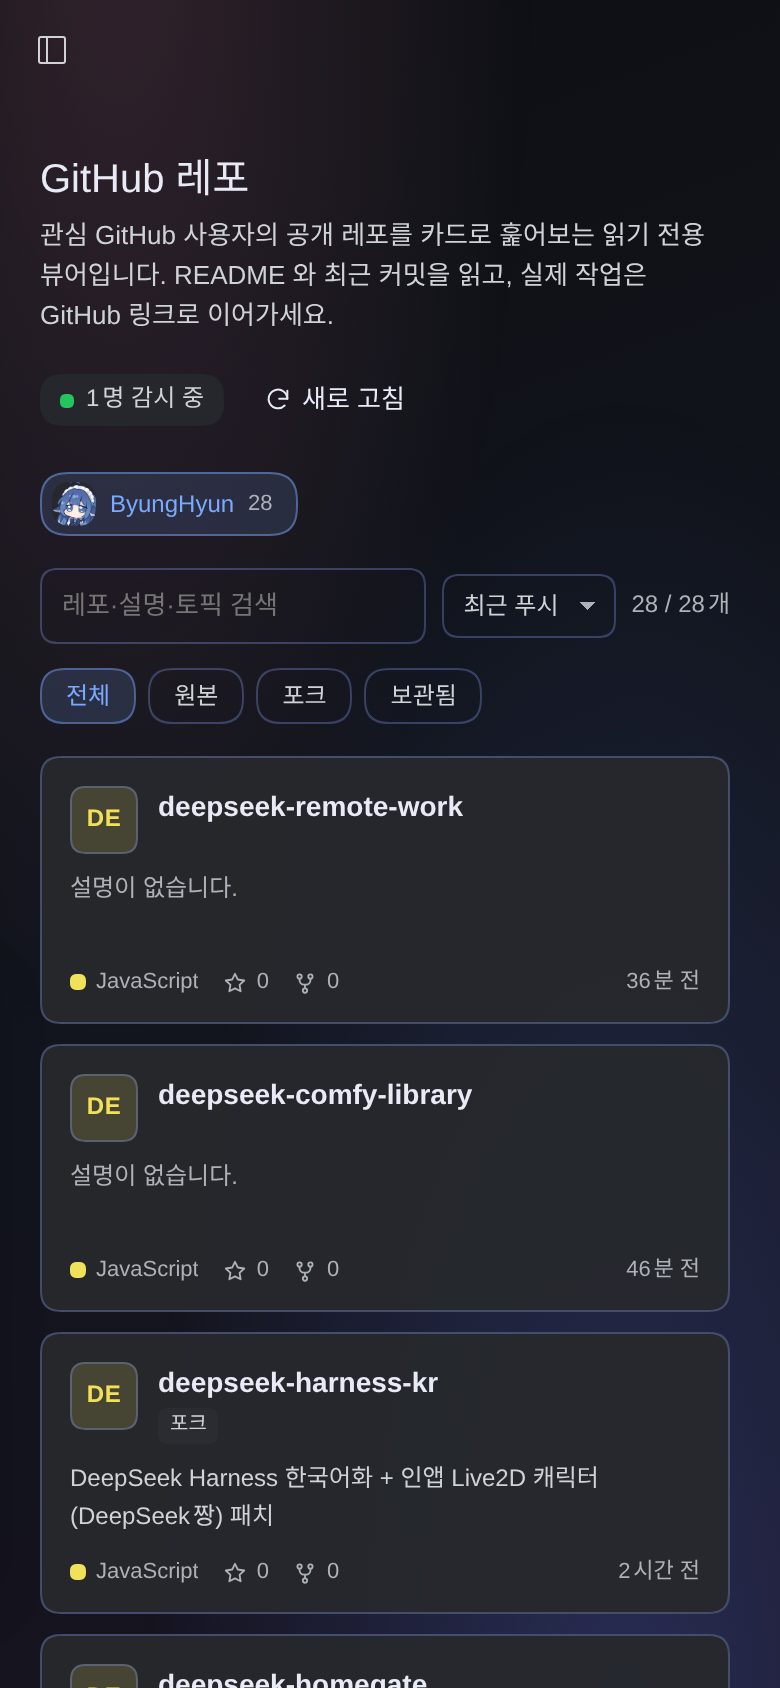
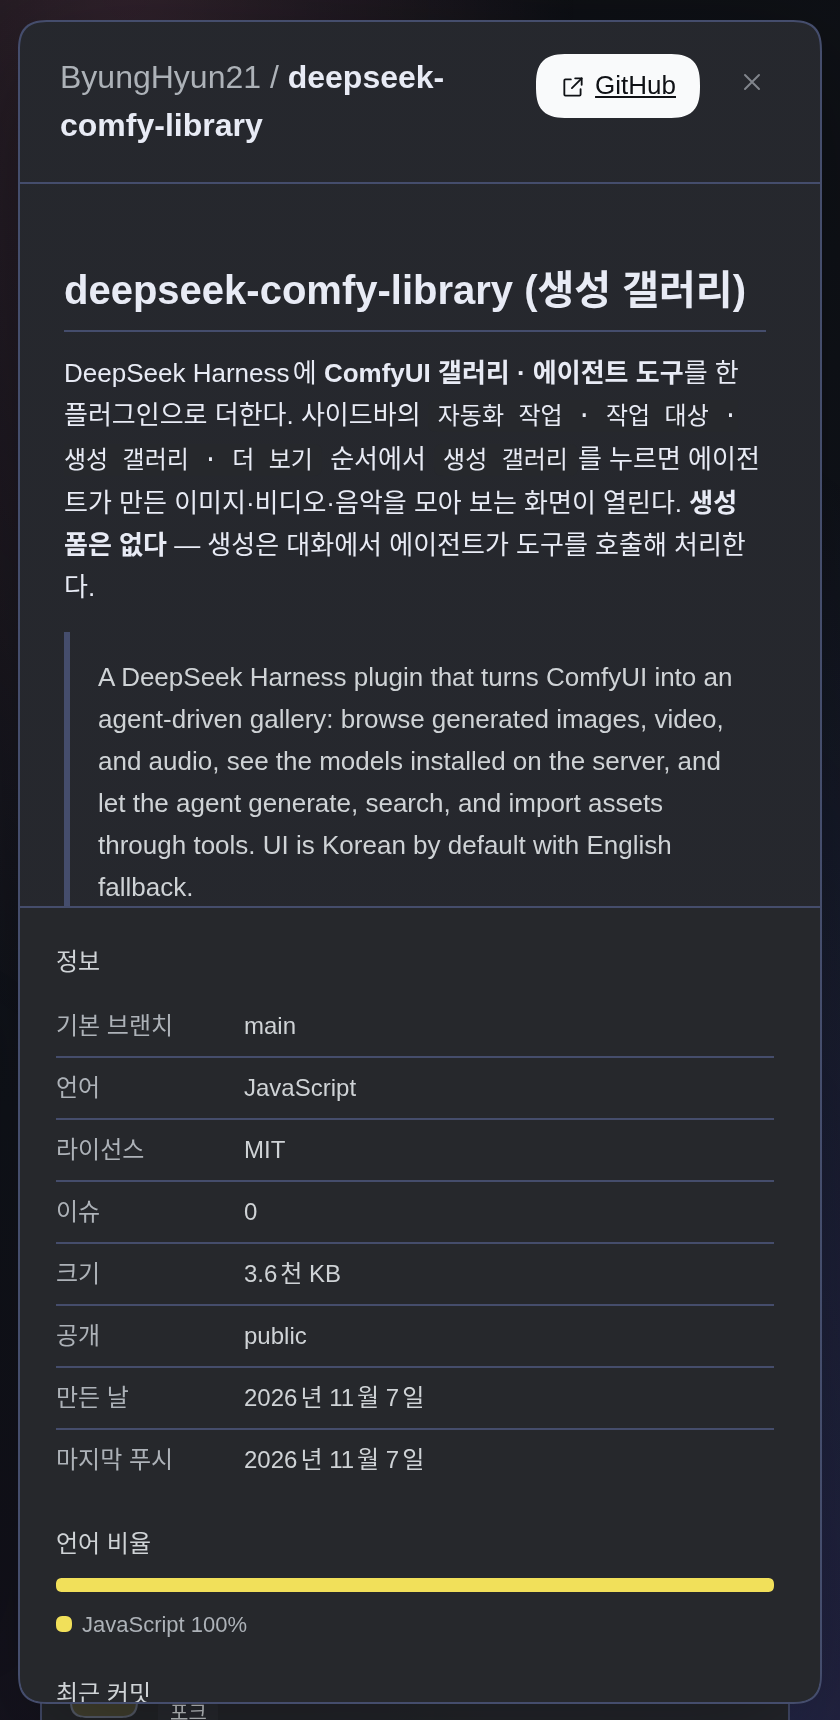
fix: 팝업 바깥 배경은 투명하게 두고 팝업 자체만 불투명하게 한다

diff --git a/lib/client.js b/lib/client.js
@@ -99,7 +99,7 @@ const CSS = [
   ".dsgh-empty span{display:block;max-width:560px;margin:0 auto;line-height:20px}",
   ".dsgh-foot{color:var(--dsw-alias-label-caption);font-size:11px;line-height:18px;margin-top:16px}",
   ".dsgh-detail{position:fixed;inset:0;z-index:60;display:grid;place-items:center;padding:24px}",
-  ".dsgh-detailBackdrop{position:absolute;inset:0;border:0;padding:0;background:linear-gradient(var(--dsw-alias-bg-layer-1),var(--dsw-alias-bg-layer-1)),linear-gradient(var(--dsw-alias-bg-layer-1),var(--dsw-alias-bg-layer-1)),linear-gradient(var(--dsw-alias-bg-layer-1),var(--dsw-alias-bg-layer-1));cursor:zoom-out}",
+  ".dsgh-detailBackdrop{position:absolute;inset:0;border:0;padding:0;background:transparent;cursor:zoom-out}",
   ".dsgh-detailPanel{position:relative;z-index:1;display:grid;grid-template-columns:minmax(0,1fr) 320px;width:min(1120px,100%);height:calc(100vh - 48px);max-height:calc(100vh - 48px);border:.5px solid var(--dsw-alias-border-l3);border-radius:16px;overflow:hidden;background:linear-gradient(var(--dsw-alias-bg-layer-2),var(--dsw-alias-bg-layer-2)),linear-gradient(var(--dsw-alias-bg-layer-2),var(--dsw-alias-bg-layer-2)),linear-gradient(var(--dsw-alias-bg-layer-2),var(--dsw-alias-bg-layer-2));box-shadow:0 18px 60px rgba(0,0,0,.35)}",
   "@media (max-width:900px){.dsgh-detail{padding:10px}.dsgh-detailPanel{grid-template-columns:minmax(0,1fr);height:calc(100vh - 20px);max-height:calc(100vh - 20px)}}",
   ".dsgh-detailMain{display:flex;flex-direction:column;min-width:0;min-height:0}",
